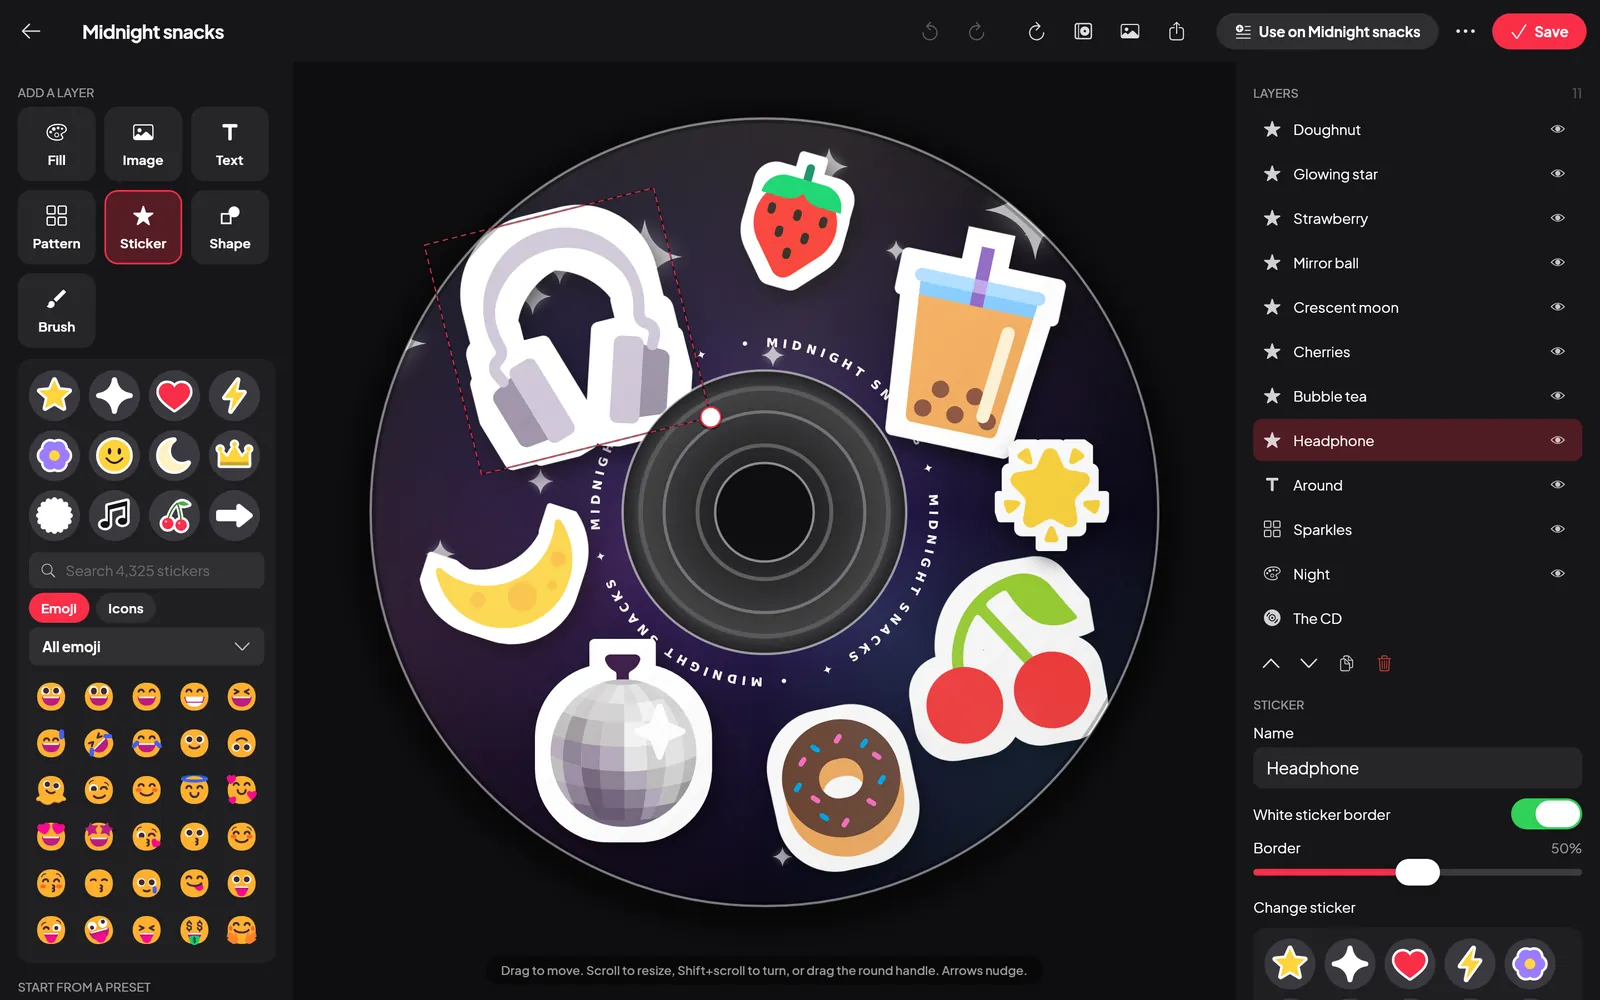
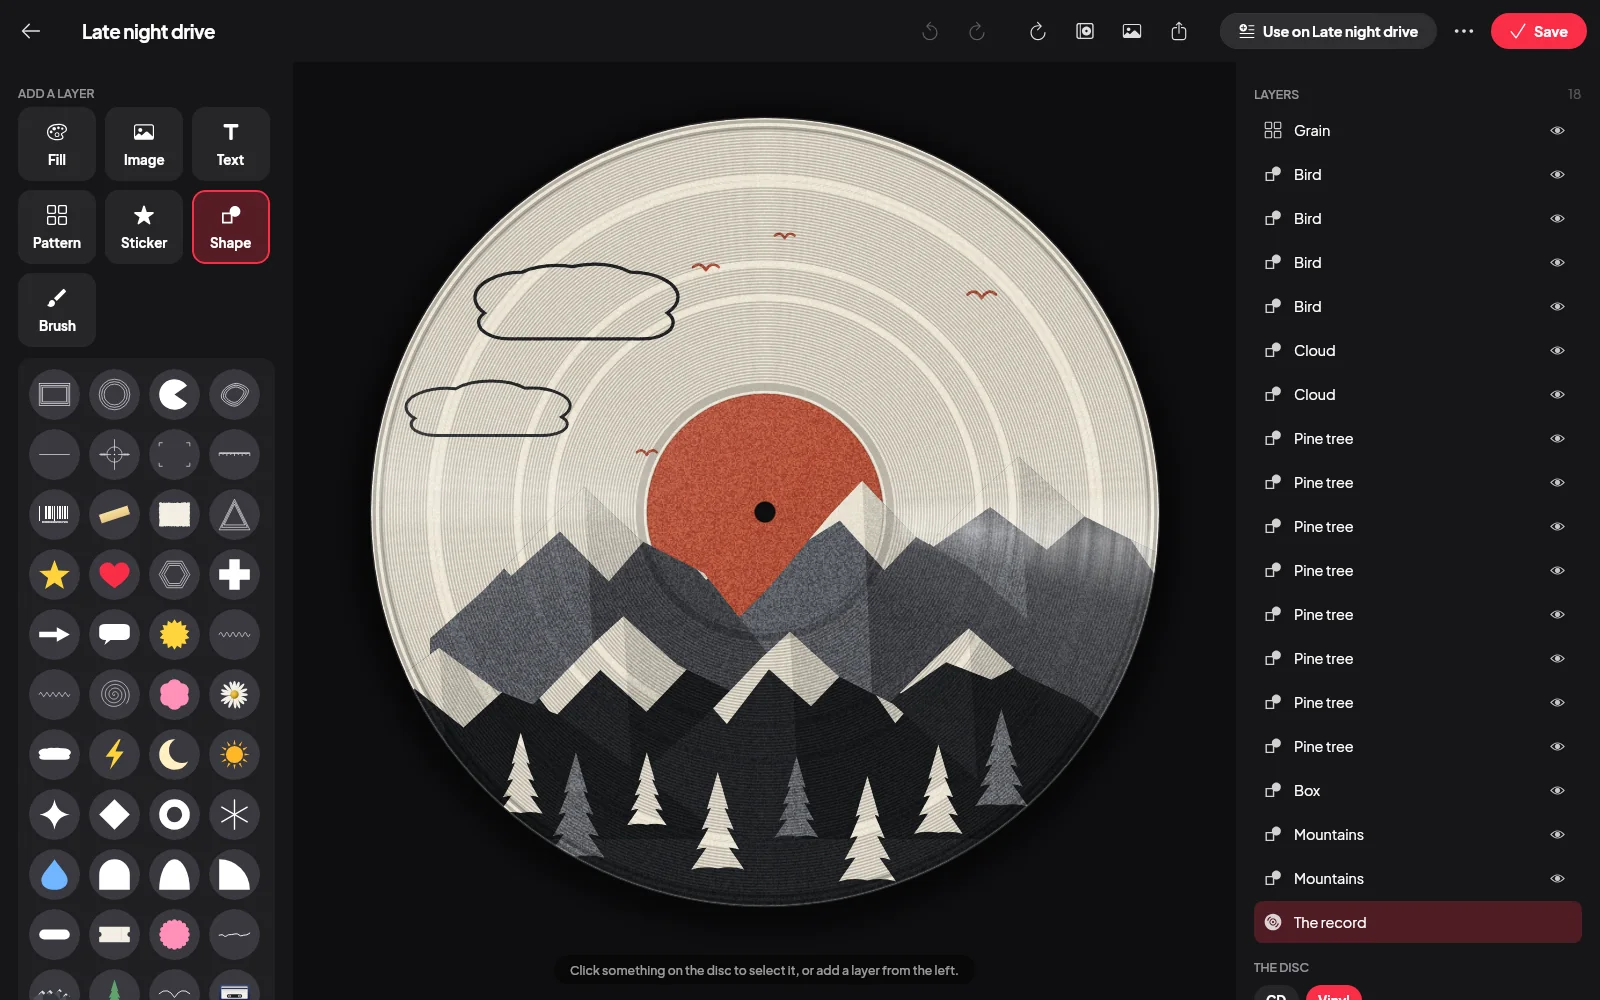
Website: the new Disc Studio discs in the rack and a new editor shot

diff --git a/website/index.html b/website/index.html
@@ -706,7 +706,7 @@ footer { padding-block: 56px calc(48px + env(safe-area-inset-bottom, 0px)); colo
             <div class="mac-view hero-deck" data-deck tabindex="0" role="button" aria-label="Show the next desktop screen">
               <figure class="card" data-pos="0" data-name="Home"><img src="assets/img/win-home.webp" width="1440" height="900" alt="Convx for Windows: the Home page with Top Picks for You, mood chips and the glass side bar"></figure>
               <figure class="card" data-pos="1" data-name="Player"><img src="assets/img/win-player.webp" width="1440" height="900" alt="Convx for Windows: the full-screen player with the vinyl design"></figure>
-              <figure class="card" data-pos="2" data-name="Disc Studio"><img src="assets/img/disc-editor.webp" width="1600" height="1000" alt="Convx for Windows: Disc Studio, designing a CD covered in stickers"></figure>
+              <figure class="card" data-pos="2" data-name="Disc Studio"><img src="assets/img/disc-editor.webp" width="1600" height="1000" alt="Convx for Windows: Disc Studio, designing a record with mountains drawn into its grooves"></figure>
               <figure class="card" data-pos="3" data-name="Moods &amp; Genres"><img src="assets/img/win-moods.webp" width="1440" height="900" alt="Convx for Windows: Moods and Genres tiles"></figure>
                 <span class="glare" aria-hidden="true"></span>
               </div>
@@ -960,7 +960,7 @@ footer { padding-block: 56px calc(48px + env(safe-area-inset-bottom, 0px)); colo
         <div>
           <span class="badge">New in Convx for Windows</span>
           <h2>Disc Studio. A record for every playlist.</h2>
-          <p class="lede" style="margin-top:22px">Design a CD or a vinyl from layers of pictures, text, shapes, patterns and your own brush strokes. Add bloom, halftone or an ink-brush texture, and the playlist wears it as its cover.</p>
+          <p class="lede" style="margin-top:22px">Design a CD or a vinyl from layers of pictures, text, shapes, patterns and your own brush strokes. Give it a holographic, liquid chrome or paint-swirl finish, lay your songs' covers round it as photo prints, and the playlist wears it as its cover.</p>
           <p class="body-2" style="margin-top:14px">Share a design as a <span class="file">.convxdisc</span> file and anyone with Convx can open it.</p>
           <div class="studio-facts">
             <div class="fact"><b>4,300</b><span>stickers, emoji and icons</span></div>
@@ -969,23 +969,25 @@ footer { padding-block: 56px calc(48px + env(safe-area-inset-bottom, 0px)); colo
           </div>
         </div>
         <div class="studio-shot">
-          <figure class="screen"><img src="assets/img/disc-editor.webp" width="1600" height="1000" loading="lazy" alt="Disc Studio editor: a CD covered in stickers, with layer, sticker and colour panels"></figure>
-          <img class="disc-float" src="assets/img/disc-chillin.webp" width="480" height="480" loading="lazy" alt="">
+          <figure class="screen"><img src="assets/img/disc-editor.webp" width="1600" height="1000" loading="lazy" alt="Disc Studio editor: a cream record with mountains, pines and birds drawn into its grooves, with the shape and layer panels"></figure>
+          <img class="disc-float" src="assets/img/disc-painted-daisies.webp" width="480" height="480" loading="lazy" alt="">
         </div>
       </div>
     </div>
     <div class="rack" aria-label="Discs made in Disc Studio">
       <div class="rack-track" data-rack>
-        <figure><img src="assets/img/disc-chillin.webp" width="480" height="480" loading="lazy" alt="A torn-paper vinyl titled Chillin"><figcaption><b>Chillin</b> · vinyl</figcaption></figure>
-        <figure><img src="assets/img/disc-late-night.webp" width="320" height="320" loading="lazy" alt="A yellow CD covered in the words Late night"><figcaption><b>Late night</b> · CD</figcaption></figure>
-        <figure><img src="assets/img/disc-pop.webp" width="320" height="320" loading="lazy" alt="A pink halftone CD that says POP!"><figcaption><b>Halftone pop</b> · CD</figcaption></figure>
-        <figure><img src="assets/img/disc-checker.webp" width="320" height="320" loading="lazy" alt="A black and white checkerboard vinyl"><figcaption><b>Checker</b> · vinyl</figcaption></figure>
-        <figure><img src="assets/img/disc-sticker.webp" width="320" height="320" loading="lazy" alt="A dark CD covered in stickers"><figcaption><b>Sticker bomb</b> · CD</figcaption></figure>
-        <figure><img src="assets/img/disc-sunburst.webp" width="320" height="320" loading="lazy" alt="An orange sunburst CD with a smiley sticker"><figcaption><b>Sunburst</b> · CD</figcaption></figure>
-        <figure><img src="assets/img/disc-pixel.webp" width="320" height="320" loading="lazy" alt="A pixel mosaic CD"><figcaption><b>Pixel mosaic</b> · CD</figcaption></figure>
-        <figure><img src="assets/img/disc-chrome.webp" width="320" height="320" loading="lazy" alt="A pale chrome CD"><figcaption><b>Chrome</b> · CD</figcaption></figure>
-        <figure><img src="assets/img/disc-splatter.webp" width="320" height="320" loading="lazy" alt="A cream vinyl with black and red paint splatter"><figcaption><b>Splatter</b> · vinyl</figcaption></figure>
-        <figure><img src="assets/img/disc-prism.webp" width="320" height="320" loading="lazy" alt="A pastel prism CD"><figcaption><b>Prism</b> · CD</figcaption></figure>
+        <figure><img src="assets/img/disc-holographic.webp" width="320" height="320" loading="lazy" alt="A holographic CD with pastel rainbow running over silver"><figcaption><b>Holographic</b> · CD</figcaption></figure>
+        <figure><img src="assets/img/disc-painted-daisies.webp" width="480" height="480" loading="lazy" alt="A black vinyl with hand-painted daisies and an orange label"><figcaption><b>Painted daisies</b> · vinyl</figcaption></figure>
+        <figure><img src="assets/img/disc-cover-collage.webp" width="320" height="320" loading="lazy" alt="A white CD with album covers laid round it as photo prints"><figcaption><b>Cover collage</b> · CD</figcaption></figure>
+        <figure><img src="assets/img/disc-big-number.webp" width="320" height="320" loading="lazy" alt="A black vinyl with a huge 72 across it and a barcode"><figcaption><b>Big number</b> · vinyl</figcaption></figure>
+        <figure><img src="assets/img/disc-retro-sunset.webp" width="320" height="320" loading="lazy" alt="A CD with a striped retro sun setting over a teal sea"><figcaption><b>Retro sunset</b> · CD</figcaption></figure>
+        <figure><img src="assets/img/disc-sticker-bomb.webp" width="320" height="320" loading="lazy" alt="A black CD covered in die-cut stickers: fruit, a planet, a butterfly, a rainbow"><figcaption><b>Sticker bomb</b> · CD</figcaption></figure>
+        <figure><img src="assets/img/disc-mountain-grooves.webp" width="320" height="320" loading="lazy" alt="A cream vinyl with mountains, pines, clouds and a red sun label"><figcaption><b>Mountains</b> · vinyl</figcaption></figure>
+        <figure><img src="assets/img/disc-patch-collage.webp" width="320" height="320" loading="lazy" alt="A black vinyl with stickers and a denim star patch"><figcaption><b>Patch collage</b> · vinyl</figcaption></figure>
+        <figure><img src="assets/img/disc-glitter-heart.webp" width="320" height="320" loading="lazy" alt="A pink CD with a big glitter heart"><figcaption><b>Glitter heart</b> · CD</figcaption></figure>
+        <figure><img src="assets/img/disc-picture-disc.webp" width="320" height="320" loading="lazy" alt="A picture disc vinyl tiled with album covers"><figcaption><b>Picture disc</b> · vinyl</figcaption></figure>
+        <figure><img src="assets/img/disc-night-garden.webp" width="320" height="320" loading="lazy" alt="A navy vinyl with a glowing moon, stars and daisies"><figcaption><b>Night garden</b> · vinyl</figcaption></figure>
+        <figure><img src="assets/img/disc-checker-daisy.webp" width="320" height="320" loading="lazy" alt="A CD in pink and green checks with white daisies"><figcaption><b>Checker daisies</b> · CD</figcaption></figure>
       </div>
     </div>
   </section>
